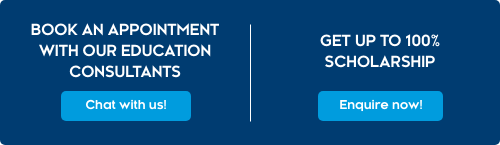
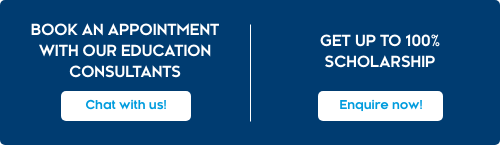
update spm edm

Changed region(s): [[0.12, 0.6069, 0.39, 0.8552], [0.63, 0.6069, 0.9, 0.8552]]

diff --git a/spm-2023/index.html b/spm-2023/index.html
@@ -34,7 +34,7 @@ td.full-width-mobile { width: auto !important; }
   <mj-text font-size="12px" color="#000000" font-family="Lato,Verdana,sans-serif" align="right" text-decoration="none"><a href="#" taregt="_blank" style="text-decoration: none; color: inherit;">VIEW IN BROWSER</a></mj-text>
 
 </mj-column>
-</mj-section> --><!-- header --><!--[if mso | IE]><table align="center" border="0" cellpadding="0" cellspacing="0" class="" style="width:600px;" width="600" ><tr><td style="line-height:0px;font-size:0px;mso-line-height-rule:exactly;"><![endif]--><div style="background:#00305D;background-color:#00305D;Margin:0px auto;max-width:600px;"><table align="center" border="0" cellpadding="0" cellspacing="0" role="presentation" style="background:#00305D;background-color:#00305D;width:100%;"><tbody><tr><td style="direction:ltr;font-size:0px;padding:20px 0;padding-bottom:0px;padding-top:0px;text-align:center;vertical-align:top;"><!--[if mso | IE]><table role="presentation" border="0" cellpadding="0" cellspacing="0"><tr><td class="" style="vertical-align:top;width:600px;" ><![endif]--><div class="mj-column-per-100 outlook-group-fix" style="font-size:13px;text-align:left;direction:ltr;display:inline-block;vertical-align:top;width:100%;"><table border="0" cellpadding="0" cellspacing="0" role="presentation" style="vertical-align:top;" width="100%"><tr><td align="center" style="font-size:0px;padding:10px 25px;padding-top:0px;padding-right:0px;padding-bottom:0px;padding-left:0px;word-break:break-word;"><table border="0" cellpadding="0" cellspacing="0" role="presentation" style="border-collapse:collapse;border-spacing:0px;"><tbody><tr><td style="width:600px;"><a href="https://www.hw.edu.my" target="_blank"><img height="auto" src="https://i.ibb.co/0VY1H5w/header.png" style="border:0;display:block;outline:none;text-decoration:none;height:auto;width:100%;" width="600"></a></td></tr></tbody></table></td></tr></table></div><!--[if mso | IE]></td></tr></table><![endif]--></td></tr></tbody></table></div><!--[if mso | IE]></td></tr></table><![endif]--><!-- -BANNER --><!--[if mso | IE]><table align="center" border="0" cellpadding="0" cellspacing="0" class="" style="width:600px;" width="600" ><tr><td style="line-height:0px;font-size:0px;mso-line-height-rule:exactly;"><![endif]--><div style="Margin:0px auto;max-width:600px;"><table align="center" border="0" cellpadding="0" cellspacing="0" role="presentation" style="width:100%;"><tbody><tr><td style="direction:ltr;font-size:0px;padding:20px 0;padding-bottom:0px;padding-top:0px;text-align:center;vertical-align:top;"><!--[if mso | IE]><table role="presentation" border="0" cellpadding="0" cellspacing="0"><tr><td class="" style="vertical-align:top;width:600px;" ><![endif]--><div class="mj-column-per-100 outlook-group-fix" style="font-size:13px;text-align:left;direction:ltr;display:inline-block;vertical-align:top;width:100%;"><table border="0" cellpadding="0" cellspacing="0" role="presentation" style="vertical-align:top;" width="100%"><tr><td align="center" style="font-size:0px;padding:10px 25px;padding-top:0px;padding-right:0px;padding-bottom:0px;padding-left:0px;word-break:break-word;"><table border="0" cellpadding="0" cellspacing="0" role="presentation" style="border-collapse:collapse;border-spacing:0px;"><tbody><tr><td style="width:600px;"><img height="auto" src="https://i.ibb.co/0MpWrqs/header.png" style="border:0;display:block;outline:none;text-decoration:none;height:auto;width:100%;" width="600"></td></tr></tbody></table></td></tr></table></div><!--[if mso | IE]></td></tr></table><![endif]--></td></tr></tbody></table></div><!--[if mso | IE]></td></tr></table><![endif]--><!-- -BODY --><!--[if mso | IE]><table align="center" border="0" cellpadding="0" cellspacing="0" class="" style="width:600px;" width="600" ><tr><td style="line-height:0px;font-size:0px;mso-line-height-rule:exactly;"><![endif]--><div style="background:#E5F5FC;background-color:#E5F5FC;Margin:0px auto;max-width:600px;"><table align="center" border="0" cellpadding="0" cellspacing="0" role="presentation" style="background:#E5F5FC;background-color:#E5F5FC;width:100%;"><tbody><tr><td style="border:none;direction:ltr;font-size:0px;padding:20px 0;padding-bottom:0;padding-left:30px;padding-right:30px;text-align:center;vertical-align:top;"><!--[if mso | IE]><table role="presentation" border="0" cellpadding="0" cellspacing="0"><tr><td class="" style="vertical-align:top;width:540px;" ><![endif]--><div class="mj-column-per-100 outlook-group-fix" style="font-size:13px;text-align:left;direction:ltr;display:inline-block;vertical-align:top;width:100%;"><table border="0" cellpadding="0" cellspacing="0" role="presentation" style="vertical-align:top;" width="100%"><tr><td align="center" style="font-size:0px;padding:10px 25px;word-break:break-word;"><div style="font-family:Lato,Verdana,sans-serif;font-size:16px;font-weight:300;line-height:22px;text-align:center;text-decoration:none;;color:#14191F;">All SPM leavers, you have the assurance that our <strong>Foundation Programme</strong> can meet your needs. At <strong>Heriot-Watt University Malaysia</strong>, you can start the next stage of your education journey with ease and on your own terms.<br><br>Our <strong>Foundation Programme</strong> offers advantages no other programme does. Join our <strong>Open Day</strong> on <strong>17 &amp; 18 June 2023, 10am - 4pm</strong> by registering below and discover why our <strong>UK-based Foundation Programme</strong> is the ideal choice for your academic journey.</div></td></tr><tr><td style="font-size:0px;word-break:break-word;"><!--[if mso | IE]><table role="presentation" border="0" cellpadding="0" cellspacing="0"><tr><td height="20" style="vertical-align:top;height:20px;"><![endif]--><div style="height:20px;">&nbsp;</div><!--[if mso | IE]></td></tr></table><![endif]--></td></tr></table></div><!--[if mso | IE]></td></tr></table><![endif]--></td></tr></tbody></table></div><!--[if mso | IE]></td></tr></table><![endif]--><!-- join us on campus --><!--[if mso | IE]><table align="center" border="0" cellpadding="0" cellspacing="0" class="" style="width:600px;" width="600" ><tr><td style="line-height:0px;font-size:0px;mso-line-height-rule:exactly;"><![endif]--><div style="background:#ffffff;background-color:#ffffff;Margin:0px auto;max-width:600px;"><table align="center" border="0" cellpadding="0" cellspacing="0" role="presentation" style="background:#ffffff;background-color:#ffffff;width:100%;"><tbody><tr><td style="border:none;direction:ltr;font-size:0px;padding:20px 0;padding-bottom:0;padding-left:36px;padding-right:36px;padding-top:0px;text-align:center;vertical-align:top;"><!--[if mso | IE]><table role="presentation" border="0" cellpadding="0" cellspacing="0"><tr><td class="" style="vertical-align:top;width:528px;" ><![endif]--><div class="mj-column-per-100 outlook-group-fix" style="font-size:13px;text-align:left;direction:ltr;display:inline-block;vertical-align:top;width:100%;"><table border="0" cellpadding="0" cellspacing="0" role="presentation" style="vertical-align:top;" width="100%"><tr><td style="font-size:0px;word-break:break-word;"><!--[if mso | IE]><table role="presentation" border="0" cellpadding="0" cellspacing="0"><tr><td height="40" style="vertical-align:top;height:40px;"><![endif]--><div style="height:40px;">&nbsp;</div><!--[if mso | IE]></td></tr></table><![endif]--></td></tr><tr><td align="center" style="font-size:0px;padding:10px 25px;padding-top:0px;padding-right:0px;padding-bottom:0px;padding-left:0px;word-break:break-word;"><table border="0" cellpadding="0" cellspacing="0" role="presentation" style="border-collapse:collapse;border-spacing:0px;"><tbody><tr><td style="width:528px;"><a href="https://www.eventbrite.com/e/heriot-watt-university-malaysias-june-open-day-tickets-629007216517?aff=erelexpmlt" target="_blank"><img height="auto" src="https://i.ibb.co/nfMTJ94/join-campus.png" style="border:0;display:block;outline:none;text-decoration:none;height:auto;width:100%;" width="528"></a></td></tr></tbody></table></td></tr></table></div><!--[if mso | IE]></td></tr></table><![endif]--></td></tr></tbody></table></div><!--[if mso | IE]></td></tr></table><table role="presentation" border="0" cellpadding="0" cellspacing="0"><tr><td height="20" style="vertical-align:top;height:20px;"><![endif]--><div style="height:20px;">&nbsp;</div><!--[if mso | IE]></td></tr></table><![endif]--><!-- CTAs --><!--[if mso | IE]><table align="center" border="0" cellpadding="0" cellspacing="0" class="" style="width:600px;" width="600" ><tr><td style="line-height:0px;font-size:0px;mso-line-height-rule:exactly;"><![endif]--><div style="background:#ffffff;background-color:#ffffff;Margin:0px auto;max-width:600px;"><table align="center" border="0" cellpadding="0" cellspacing="0" role="presentation" style="background:#ffffff;background-color:#ffffff;width:100%;"><tbody><tr><td style="border:none;direction:ltr;font-size:0px;padding:20px 0;padding-bottom:0;padding-left:36px;padding-right:36px;padding-top:0px;text-align:center;vertical-align:top;"><!--[if mso | IE]><table role="presentation" border="0" cellpadding="0" cellspacing="0"><tr><td class="" style="vertical-align:top;width:528px;" ><![endif]--><div class="mj-column-per-100 outlook-group-fix" style="font-size:13px;text-align:left;direction:ltr;display:inline-block;vertical-align:top;width:100%;"><table border="0" cellpadding="0" cellspacing="0" role="presentation" style="vertical-align:top;" width="100%"><tr><td align="center" style="font-size:0px;padding:10px 25px;padding-top:0px;padding-right:0px;padding-bottom:0px;padding-left:0px;word-break:break-word;"><table border="0" cellpadding="0" cellspacing="0" role="presentation" style="border-collapse:collapse;border-spacing:0px;"><tbody><tr><td style="width:528px;"><a href="https://www.hw.ac.uk/malaysia/visit/chat-with-an-education-consultant.htm" target="_blank"><img height="auto" src="https://i.ibb.co/gm1qdCN/button-2.png" style="border:0;display:block;outline:none;text-decoration:none;height:auto;width:100%;" width="528"></a></td></tr></tbody></table></td></tr><tr><td style="font-size:0px;word-break:break-word;"><!--[if mso | IE]><table role="presentation" border="0" cellpadding="0" cellspacing="0"><tr><td height="40" style="vertical-align:top;height:40px;"><![endif]--><div style="height:40px;">&nbsp;</div><!--[if mso | IE]></td></tr></table><![endif]--></td></tr></table></div><!--[if mso | IE]></td></tr></table><![endif]--></td></tr></tbody></table></div><!--[if mso | IE]></td></tr></table><![endif]--> <!-- register now cta --><!-- <mj-section background-color="#ffffff" border="none" padding-bottom="0" padding-left="0px" padding-right="0px" >
+</mj-section> --><!-- header --><!--[if mso | IE]><table align="center" border="0" cellpadding="0" cellspacing="0" class="" style="width:600px;" width="600" ><tr><td style="line-height:0px;font-size:0px;mso-line-height-rule:exactly;"><![endif]--><div style="background:#00305D;background-color:#00305D;Margin:0px auto;max-width:600px;"><table align="center" border="0" cellpadding="0" cellspacing="0" role="presentation" style="background:#00305D;background-color:#00305D;width:100%;"><tbody><tr><td style="direction:ltr;font-size:0px;padding:20px 0;padding-bottom:0px;padding-top:0px;text-align:center;vertical-align:top;"><!--[if mso | IE]><table role="presentation" border="0" cellpadding="0" cellspacing="0"><tr><td class="" style="vertical-align:top;width:600px;" ><![endif]--><div class="mj-column-per-100 outlook-group-fix" style="font-size:13px;text-align:left;direction:ltr;display:inline-block;vertical-align:top;width:100%;"><table border="0" cellpadding="0" cellspacing="0" role="presentation" style="vertical-align:top;" width="100%"><tr><td align="center" style="font-size:0px;padding:10px 25px;padding-top:0px;padding-right:0px;padding-bottom:0px;padding-left:0px;word-break:break-word;"><table border="0" cellpadding="0" cellspacing="0" role="presentation" style="border-collapse:collapse;border-spacing:0px;"><tbody><tr><td style="width:600px;"><a href="https://www.hw.edu.my" target="_blank"><img height="auto" src="https://i.ibb.co/0VY1H5w/header.png" style="border:0;display:block;outline:none;text-decoration:none;height:auto;width:100%;" width="600"></a></td></tr></tbody></table></td></tr></table></div><!--[if mso | IE]></td></tr></table><![endif]--></td></tr></tbody></table></div><!--[if mso | IE]></td></tr></table><![endif]--><!-- -BANNER --><!--[if mso | IE]><table align="center" border="0" cellpadding="0" cellspacing="0" class="" style="width:600px;" width="600" ><tr><td style="line-height:0px;font-size:0px;mso-line-height-rule:exactly;"><![endif]--><div style="Margin:0px auto;max-width:600px;"><table align="center" border="0" cellpadding="0" cellspacing="0" role="presentation" style="width:100%;"><tbody><tr><td style="direction:ltr;font-size:0px;padding:20px 0;padding-bottom:0px;padding-top:0px;text-align:center;vertical-align:top;"><!--[if mso | IE]><table role="presentation" border="0" cellpadding="0" cellspacing="0"><tr><td class="" style="vertical-align:top;width:600px;" ><![endif]--><div class="mj-column-per-100 outlook-group-fix" style="font-size:13px;text-align:left;direction:ltr;display:inline-block;vertical-align:top;width:100%;"><table border="0" cellpadding="0" cellspacing="0" role="presentation" style="vertical-align:top;" width="100%"><tr><td align="center" style="font-size:0px;padding:10px 25px;padding-top:0px;padding-right:0px;padding-bottom:0px;padding-left:0px;word-break:break-word;"><table border="0" cellpadding="0" cellspacing="0" role="presentation" style="border-collapse:collapse;border-spacing:0px;"><tbody><tr><td style="width:600px;"><img height="auto" src="https://i.ibb.co/0MpWrqs/header.png" style="border:0;display:block;outline:none;text-decoration:none;height:auto;width:100%;" width="600"></td></tr></tbody></table></td></tr></table></div><!--[if mso | IE]></td></tr></table><![endif]--></td></tr></tbody></table></div><!--[if mso | IE]></td></tr></table><![endif]--><!-- -BODY --><!--[if mso | IE]><table align="center" border="0" cellpadding="0" cellspacing="0" class="" style="width:600px;" width="600" ><tr><td style="line-height:0px;font-size:0px;mso-line-height-rule:exactly;"><![endif]--><div style="background:#E5F5FC;background-color:#E5F5FC;Margin:0px auto;max-width:600px;"><table align="center" border="0" cellpadding="0" cellspacing="0" role="presentation" style="background:#E5F5FC;background-color:#E5F5FC;width:100%;"><tbody><tr><td style="border:none;direction:ltr;font-size:0px;padding:20px 0;padding-bottom:0;padding-left:30px;padding-right:30px;text-align:center;vertical-align:top;"><!--[if mso | IE]><table role="presentation" border="0" cellpadding="0" cellspacing="0"><tr><td class="" style="vertical-align:top;width:540px;" ><![endif]--><div class="mj-column-per-100 outlook-group-fix" style="font-size:13px;text-align:left;direction:ltr;display:inline-block;vertical-align:top;width:100%;"><table border="0" cellpadding="0" cellspacing="0" role="presentation" style="vertical-align:top;" width="100%"><tr><td align="center" style="font-size:0px;padding:10px 25px;word-break:break-word;"><div style="font-family:Lato,Verdana,sans-serif;font-size:16px;font-weight:300;line-height:22px;text-align:center;text-decoration:none;;color:#14191F;">All SPM leavers, you have the assurance that our <strong>Foundation Programme</strong> can meet your needs. At <strong>Heriot-Watt University Malaysia</strong>, you can start the next stage of your education journey with ease and on your own terms.<br><br>Discover the seamless path to your undergraduate studies with our exclusive <strong>Foundation Programme</strong>. Join us for our <strong>Open Day</strong> on <strong>17 and 18 June 2023, from 10 am to 4 pm</strong>, by registering below.<br><br>Explore why our <strong>UK-based Foundation Programme</strong> is the perfect choice for your academic journey and gain insights into the diverse options it offers for your future.</div></td></tr><tr><td style="font-size:0px;word-break:break-word;"><!--[if mso | IE]><table role="presentation" border="0" cellpadding="0" cellspacing="0"><tr><td height="20" style="vertical-align:top;height:20px;"><![endif]--><div style="height:20px;">&nbsp;</div><!--[if mso | IE]></td></tr></table><![endif]--></td></tr></table></div><!--[if mso | IE]></td></tr></table><![endif]--></td></tr></tbody></table></div><!--[if mso | IE]></td></tr></table><![endif]--><!-- join us on campus --><!--[if mso | IE]><table align="center" border="0" cellpadding="0" cellspacing="0" class="" style="width:600px;" width="600" ><tr><td style="line-height:0px;font-size:0px;mso-line-height-rule:exactly;"><![endif]--><div style="background:#ffffff;background-color:#ffffff;Margin:0px auto;max-width:600px;"><table align="center" border="0" cellpadding="0" cellspacing="0" role="presentation" style="background:#ffffff;background-color:#ffffff;width:100%;"><tbody><tr><td style="border:none;direction:ltr;font-size:0px;padding:20px 0;padding-bottom:0;padding-left:36px;padding-right:36px;padding-top:0px;text-align:center;vertical-align:top;"><!--[if mso | IE]><table role="presentation" border="0" cellpadding="0" cellspacing="0"><tr><td class="" style="vertical-align:top;width:528px;" ><![endif]--><div class="mj-column-per-100 outlook-group-fix" style="font-size:13px;text-align:left;direction:ltr;display:inline-block;vertical-align:top;width:100%;"><table border="0" cellpadding="0" cellspacing="0" role="presentation" style="vertical-align:top;" width="100%"><tr><td style="font-size:0px;word-break:break-word;"><!--[if mso | IE]><table role="presentation" border="0" cellpadding="0" cellspacing="0"><tr><td height="40" style="vertical-align:top;height:40px;"><![endif]--><div style="height:40px;">&nbsp;</div><!--[if mso | IE]></td></tr></table><![endif]--></td></tr><tr><td align="center" style="font-size:0px;padding:10px 25px;padding-top:0px;padding-right:0px;padding-bottom:0px;padding-left:0px;word-break:break-word;"><table border="0" cellpadding="0" cellspacing="0" role="presentation" style="border-collapse:collapse;border-spacing:0px;"><tbody><tr><td style="width:528px;"><a href="https://www.eventbrite.com/e/heriot-watt-university-malaysias-june-open-day-tickets-629007216517?aff=erelexpmlt" target="_blank"><img height="auto" src="https://i.ibb.co/7bzhMCh/join-campus.png" style="border:0;display:block;outline:none;text-decoration:none;height:auto;width:100%;" width="528"></a></td></tr></tbody></table></td></tr></table></div><!--[if mso | IE]></td></tr></table><![endif]--></td></tr></tbody></table></div><!--[if mso | IE]></td></tr></table><table role="presentation" border="0" cellpadding="0" cellspacing="0"><tr><td height="20" style="vertical-align:top;height:20px;"><![endif]--><div style="height:20px;">&nbsp;</div><!--[if mso | IE]></td></tr></table><![endif]--><!-- CTAs --><!--[if mso | IE]><table align="center" border="0" cellpadding="0" cellspacing="0" class="" style="width:600px;" width="600" ><tr><td style="line-height:0px;font-size:0px;mso-line-height-rule:exactly;"><![endif]--><div style="background:#ffffff;background-color:#ffffff;Margin:0px auto;max-width:600px;"><table align="center" border="0" cellpadding="0" cellspacing="0" role="presentation" style="background:#ffffff;background-color:#ffffff;width:100%;"><tbody><tr><td style="border:none;direction:ltr;font-size:0px;padding:20px 0;padding-bottom:0;padding-left:36px;padding-right:36px;padding-top:0px;text-align:center;vertical-align:top;"><!--[if mso | IE]><table role="presentation" border="0" cellpadding="0" cellspacing="0"><tr><td class="" style="vertical-align:top;width:528px;" ><![endif]--><div class="mj-column-per-100 outlook-group-fix" style="font-size:13px;text-align:left;direction:ltr;display:inline-block;vertical-align:top;width:100%;"><table border="0" cellpadding="0" cellspacing="0" role="presentation" style="vertical-align:top;" width="100%"><tr><td align="center" style="font-size:0px;padding:10px 25px;padding-top:0px;padding-right:0px;padding-bottom:0px;padding-left:0px;word-break:break-word;"><table border="0" cellpadding="0" cellspacing="0" role="presentation" style="border-collapse:collapse;border-spacing:0px;"><tbody><tr><td style="width:528px;"><a href="https://www.hw.ac.uk/malaysia/visit/chat-with-an-education-consultant.htm" target="_blank"><img height="auto" src="https://i.ibb.co/MNSpC5K/button-2.png" style="border:0;display:block;outline:none;text-decoration:none;height:auto;width:100%;" width="528"></a></td></tr></tbody></table></td></tr><tr><td style="font-size:0px;word-break:break-word;"><!--[if mso | IE]><table role="presentation" border="0" cellpadding="0" cellspacing="0"><tr><td height="40" style="vertical-align:top;height:40px;"><![endif]--><div style="height:40px;">&nbsp;</div><!--[if mso | IE]></td></tr></table><![endif]--></td></tr></table></div><!--[if mso | IE]></td></tr></table><![endif]--></td></tr></tbody></table></div><!--[if mso | IE]></td></tr></table><![endif]--> <!-- register now cta --><!-- <mj-section background-color="#ffffff" border="none" padding-bottom="0" padding-left="0px" padding-right="0px" >
 <mj-column width="100%">
 <mj-spacer height="20px" />
 
